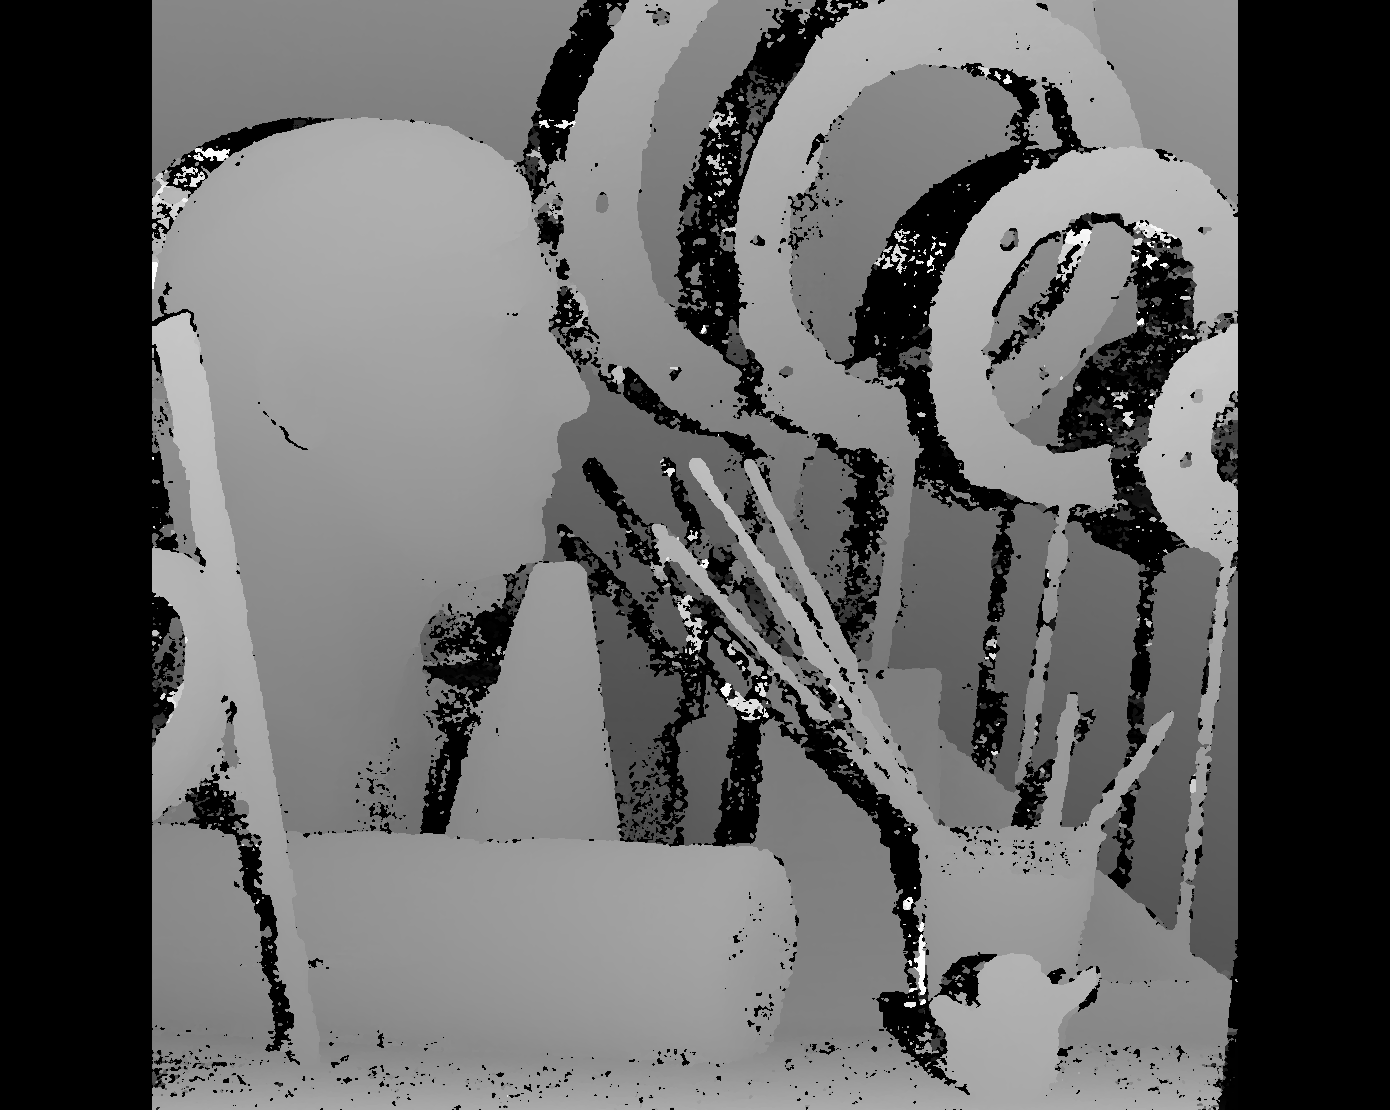
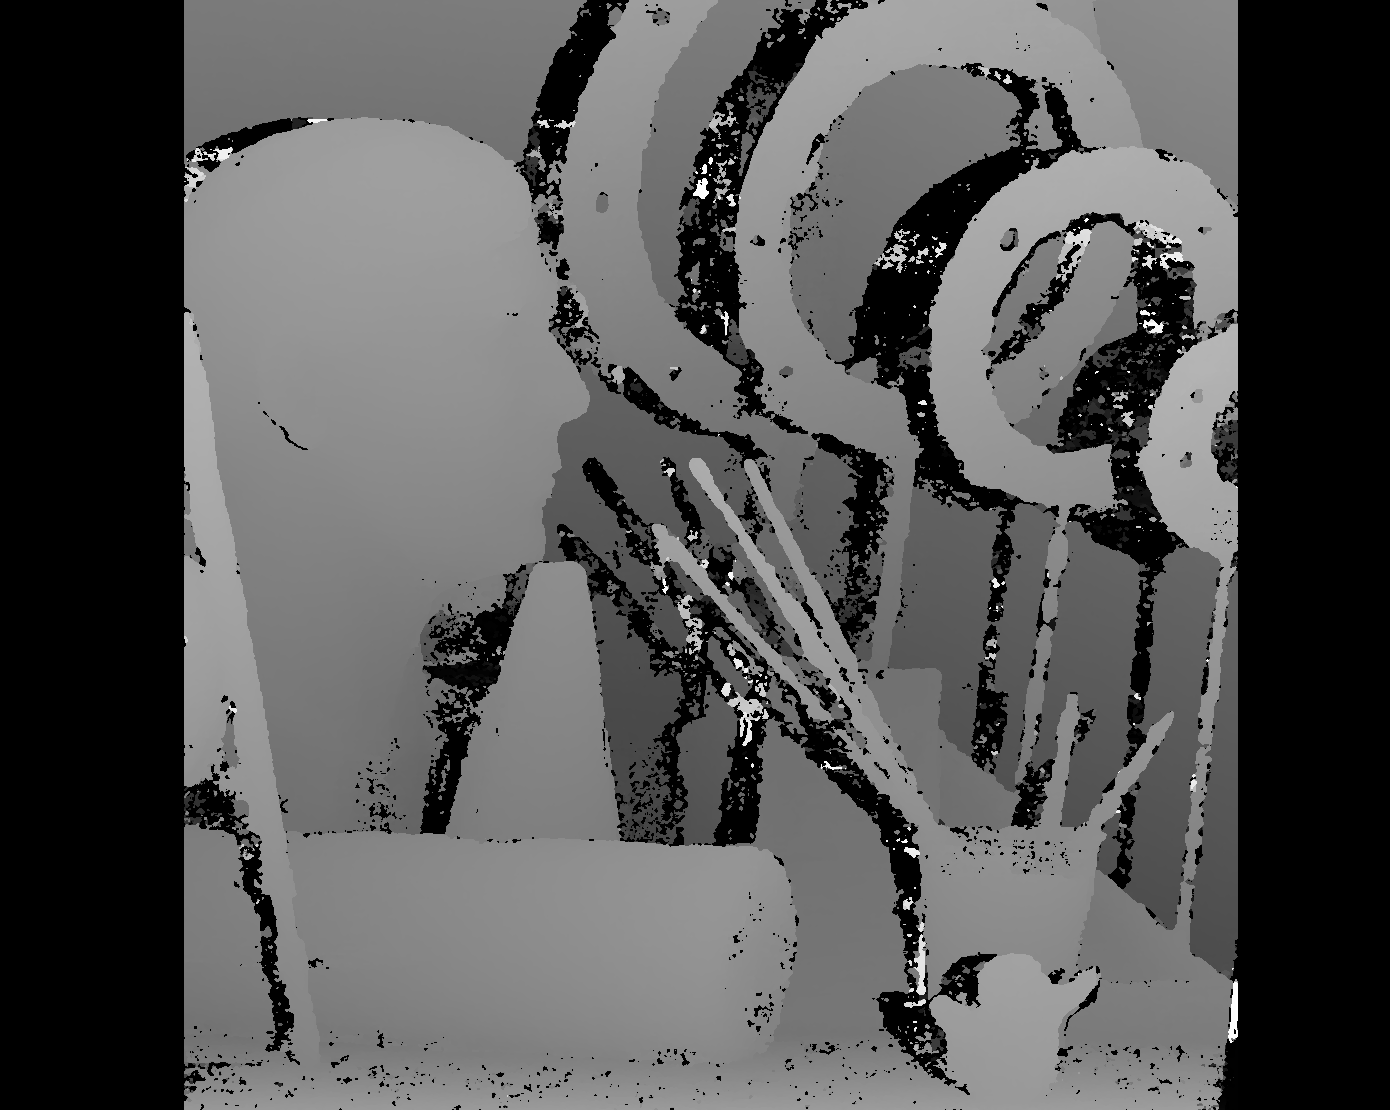
dd

diff --git a/disparity map2.1.py b/disparity map2.1.py
@@ -101,16 +101,16 @@ _, H1, H2 = cv.stereoRectifyUncalibrated(
 img1_rectified = cv.warpPerspective(img1, H1, (w1, h1))
 img2_rectified = cv.warpPerspective(img2, H2, (w2, h2))
 
-# Draw the rectified images
-fig, axes = plt.subplots(1, 2, figsize=(15, 10))
-axes[0].imshow(img1_rectified, cmap="gray")
-axes[1].imshow(img2_rectified, cmap="gray")
-axes[0].axvline(250)
-axes[1].axvline(250)
-axes[0].axvline(450)
-axes[1].axvline(450)
-plt.suptitle("Rectified images")
-plt.show()
+# # Draw the rectified images
+# fig, axes = plt.subplots(1, 2, figsize=(15, 10))
+# axes[0].imshow(img1_rectified, cmap="gray")
+# axes[1].imshow(img2_rectified, cmap="gray")
+# axes[0].axvline(250)
+# axes[1].axvline(250)
+# axes[0].axvline(450)
+# axes[1].axvline(450)
+# plt.suptitle("Rectified images")
+# plt.show()
 
 # ------------------------------------------------------------
 # CALCULATE DISPARITY (DEPTH MAP)
@@ -123,7 +123,7 @@ plt.show()
 # Matched block size. It must be an odd number >=1 . Normally, it should be somewhere in the 3..11 range.
 block_size = 3
 min_disp = -152
-max_disp = 152
+max_disp = 184
 # Maximum disparity minus minimum disparity. The value is always greater than zero.
 # In the current implementation, this parameter must be divisible by 16.
 num_disp = max_disp - min_disp
